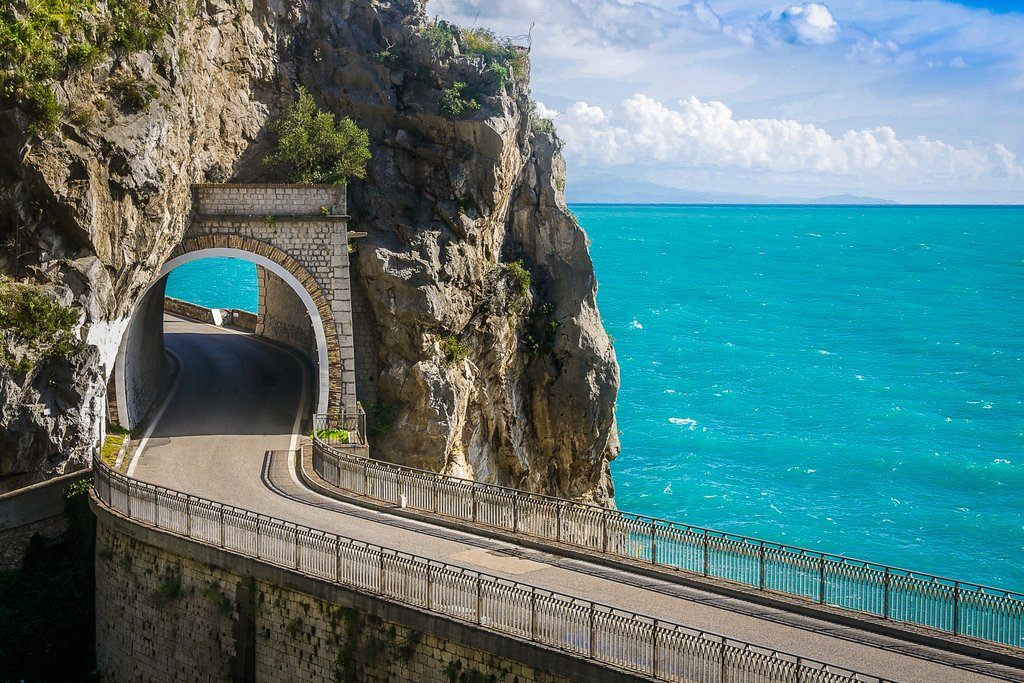
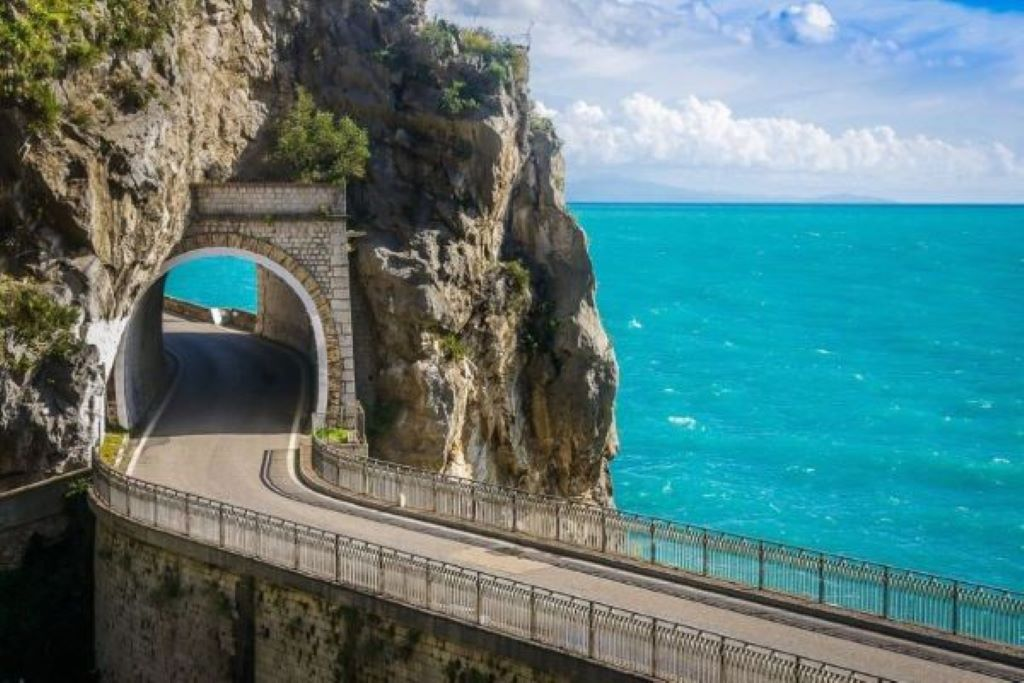
update profile

diff --git a/index.html b/index.html
@@ -1,6 +1,6 @@
 <!-- 
 
-  This template is first designed and developed by Nisar Hassan Naqvi
+  This template is reproduced designing and developing by Nisar Hassan Naqvi
 
   Github Repo: https://github.com/nisarhassan12/portfolio-template/
 
@@ -34,13 +34,14 @@
       <nav class="nav" role="navigation">
         <ul class="nav__items">
           <li class="nav__item"><a href="#work" class="nav__link">Work</a></li>
-          <li class="nav__item"><a href="#clients" class="nav__link">Clients</a></li>
           <li class="nav__item">
             <a href="#about" class="nav__link">About</a>
           </li>
           <li class="nav__item">
             <a href="#contact" class="nav__link">Contact</a>
           </li>
+          <!-- <li class="nav__item"><a href="#more" class="nav__link">Clients</a></li> -->
+
         </ul>
       </nav>
     </div>
@@ -91,7 +92,7 @@
               </div>
             </div>
             <div class="work__image-box">
-              <img src="./images/project-1.png" class="work__image" alt="Project 1" />
+              <img src="./images/project-1.jpg" class="work__image" alt="Project 1" />
             </div>
           </div>
 
@@ -146,14 +147,17 @@
           me is via an email😊)
         </p>
         <!-- Replace the email with yours -->
-        <a href="chinh10hht@gmail.com" class="btn">chinh10hht@gmail.com
-          <img src="./images/email.svg" title="Link to email" class="footer__social-image" alt="Email">
+        <a href="chinh10hht@gmail.com" class="btn">
+          <img src="./images/email.svg" title="Link to email" class="contact__icon" alt="Email">
+          chinh10hht@gmail.com
         </a>
-        <a href="https://www.linkedin.com/in/chinh-luong-doanh/" class="btn">My Linkedin
-          <img src="./images/linkedin.svg" title="Link to Linkedin Profile" class="footer__social-image" alt="Linkedin">
+        <a href="https://www.linkedin.com/in/chinh-luong-doanh/" class="btn">
+          <img src="./images/linkedin.svg" title="Link to Linkedin Profile" class="contact__icon" alt="Linkedin">
+          My Linkedin
         </a>
-        <a href="https://github.com/Doanh-Chinh" class="btn">My Github
-          <img src="./images/github.svg" class="footer__social-image" alt="Github">
+        <a href="https://github.com/Doanh-Chinh" class="btn">
+          <img src="./images/github.svg" class="contact__icon" alt="Github">
+          My Github
         </a>
 
       </div>
@@ -182,7 +186,7 @@
 
       
       <p>
-        Reproduce a Template designed & developed by <a href="https://nisar.dev" class="link">Nisar</a>.
+        This page was reproduced on a template designed & developed by <a href="https://nisar.dev" class="link">Nisar</a>.
       </p>
     </div>
   </footer>

diff --git a/index.css b/index.css
@@ -216,7 +216,7 @@ body:not(.user-is-tabbing) a:focus {
 .btn {
     position: relative;
     display: inline-block;
-    padding: 1rem 4.2rem;
+    padding: 1rem 3.2rem;
     text-decoration: none;
     color: inherit;
     border: 1px solid  var(--pink);
@@ -545,6 +545,11 @@ body:not(.user-is-tabbing) a:focus {
     .about__content {
         flex-direction: column-reverse;
         align-items: initial;
+        /* display: flex;
+        flex-wrap: wrap;
+        justify-content: space-between;
+        align-items: center; */
+        
     }
 }
 
@@ -554,7 +559,7 @@ body:not(.user-is-tabbing) a:focus {
 
 @media(min-width: 901px) {
     .about__text {
-        flex: 0 0 35%;
+        flex: 0 0 45%;
     }
     
     .about__photo-container {
@@ -569,6 +574,13 @@ body:not(.user-is-tabbing) a:focus {
 
 .contact__info {
     max-width: var(--container-medium-width);
+}
+
+.contact__icon {
+    margin-right: 8px; /* Space between the icon and the text */
+    width: 24px; /* Adjust the icon size */
+    height: 24px;
+    vertical-align: middle; /* Ensure it aligns with text */
 }
 
 /* --------------------------------------- */
